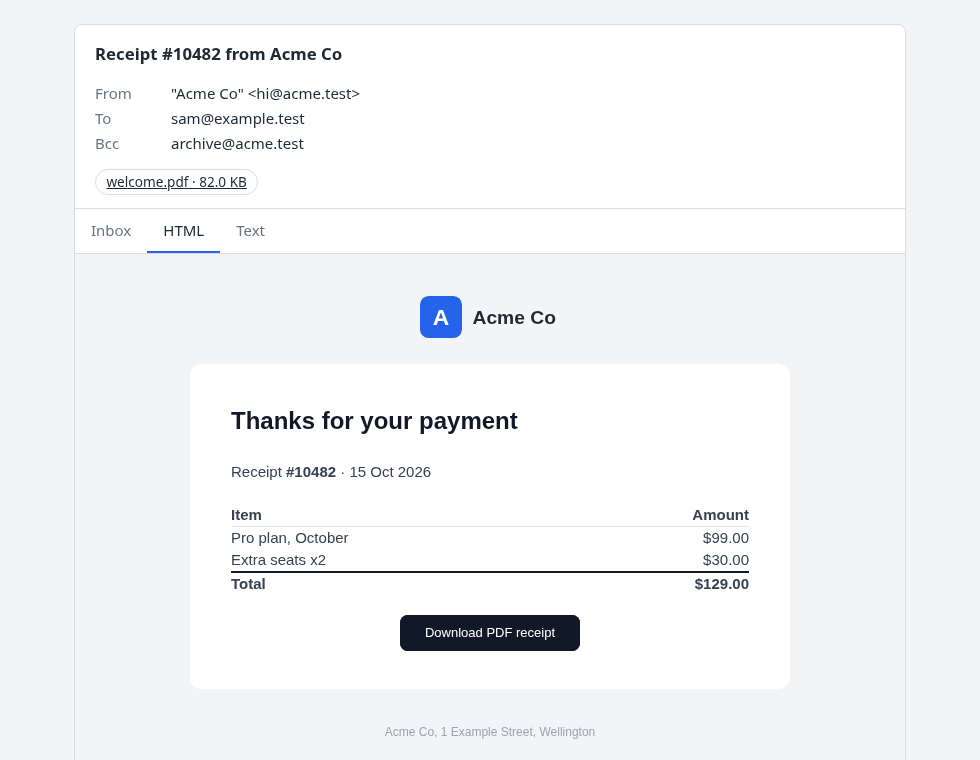
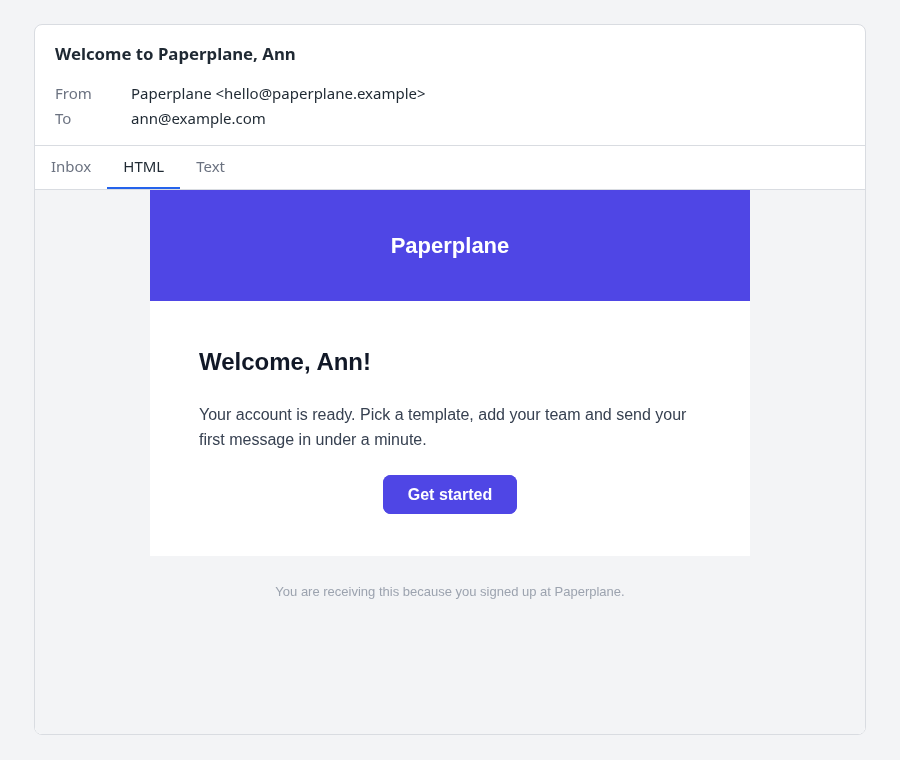
docs: README links to the site; preview screenshots match their examples

diff --git a/README.md b/README.md
@@ -78,11 +78,11 @@ Celery task like any other Django message. Links are made absolute from the requ
 
 And the reader gets:
 
-![The welcome email: an indigo header, a greeting, a button and a footer](https://raw.githubusercontent.com/SmileyChris/django-mjml-templates/main/docs/images/welcome-email.png)
+![The welcome email: an indigo header, a greeting, a button and a footer](https://smileychris.github.io/django-mjml-templates/images/welcome-email.png)
 
 ## Documentation
 
-- [Get started](https://github.com/SmileyChris/django-mjml-templates/blob/main/docs/README.md): the template, the view and a preview view
-- How-to: [a simple design](https://github.com/SmileyChris/django-mjml-templates/blob/main/docs/how-to/build-a-design.md), [sending from a task](https://github.com/SmileyChris/django-mjml-templates/blob/main/docs/how-to/send-from-a-task.md), [testing](https://github.com/SmileyChris/django-mjml-templates/blob/main/docs/how-to/test-an-email.md), [a shared layout](https://github.com/SmileyChris/django-mjml-templates/blob/main/docs/how-to/write-a-layout.md), [absolute links](https://github.com/SmileyChris/django-mjml-templates/blob/main/docs/how-to/absolute-urls.md), [previewing](https://github.com/SmileyChris/django-mjml-templates/blob/main/docs/how-to/preview-an-email.md), [customising the preview](https://github.com/SmileyChris/django-mjml-templates/blob/main/docs/how-to/customise-preview.md)
-- Reference: [API](https://github.com/SmileyChris/django-mjml-templates/blob/main/docs/reference/api.md), [plain-text fallback](https://github.com/SmileyChris/django-mjml-templates/blob/main/docs/reference/plain-text.md), [preview](https://github.com/SmileyChris/django-mjml-templates/blob/main/docs/reference/preview.md)
-- Explanation: [why this](https://github.com/SmileyChris/django-mjml-templates/blob/main/docs/explanation/why.md), [how a render works](https://github.com/SmileyChris/django-mjml-templates/blob/main/docs/explanation/how-a-render-works.md), [how the preview is designed](https://github.com/SmileyChris/django-mjml-templates/blob/main/docs/explanation/preview-design.md)
+- [Get started](https://smileychris.github.io/django-mjml-templates/): the template, the view and a preview view
+- How-to: [a simple design](https://smileychris.github.io/django-mjml-templates/how-to/build-a-design/), [sending from a task](https://smileychris.github.io/django-mjml-templates/how-to/send-from-a-task/), [testing](https://smileychris.github.io/django-mjml-templates/how-to/test-an-email/), [a shared layout](https://smileychris.github.io/django-mjml-templates/how-to/write-a-layout/), [absolute links](https://smileychris.github.io/django-mjml-templates/how-to/absolute-urls/), [previewing](https://smileychris.github.io/django-mjml-templates/how-to/preview-an-email/), [customising the preview](https://smileychris.github.io/django-mjml-templates/how-to/customise-preview/)
+- Reference: [API](https://smileychris.github.io/django-mjml-templates/reference/api/), [plain-text fallback](https://smileychris.github.io/django-mjml-templates/reference/plain-text/), [preview](https://smileychris.github.io/django-mjml-templates/reference/preview/)
+- Explanation: [why this](https://smileychris.github.io/django-mjml-templates/explanation/why/), [how a render works](https://smileychris.github.io/django-mjml-templates/explanation/how-a-render-works/), [how the preview is designed](https://smileychris.github.io/django-mjml-templates/explanation/preview-design/)

diff --git a/docs/README.md b/docs/README.md
@@ -75,7 +75,7 @@ def invite_preview(request):
     return preview_response(message)
 ```
 
-![The preview page: the envelope, the tabs and the email](images/preview-html.png){ width=480 }
+![The preview page: the envelope, the tabs and the invite email](images/preview-invite.png){ width=480 }
 
 ## Where next
 
